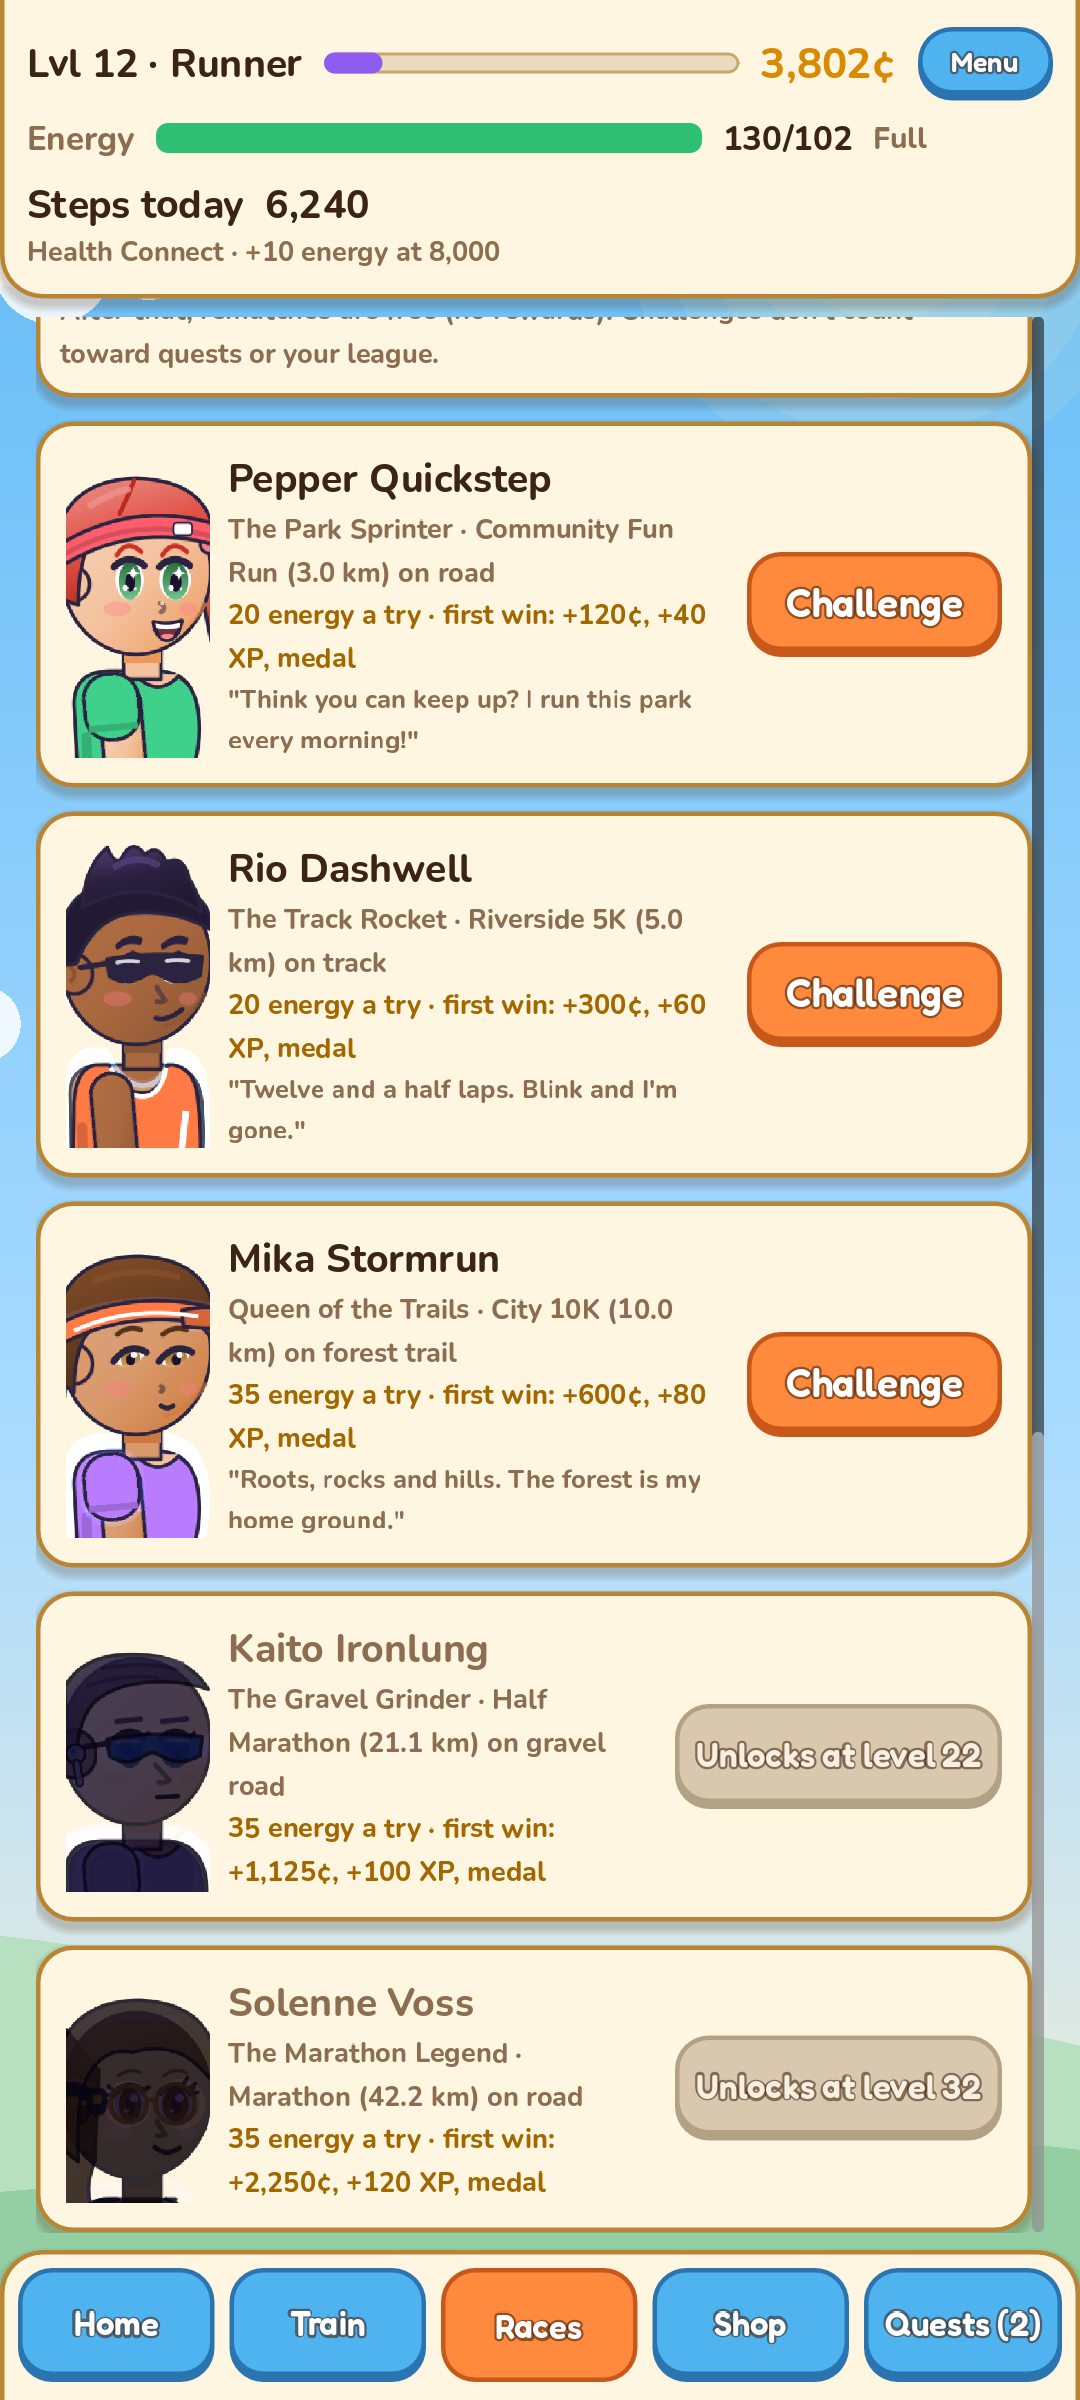
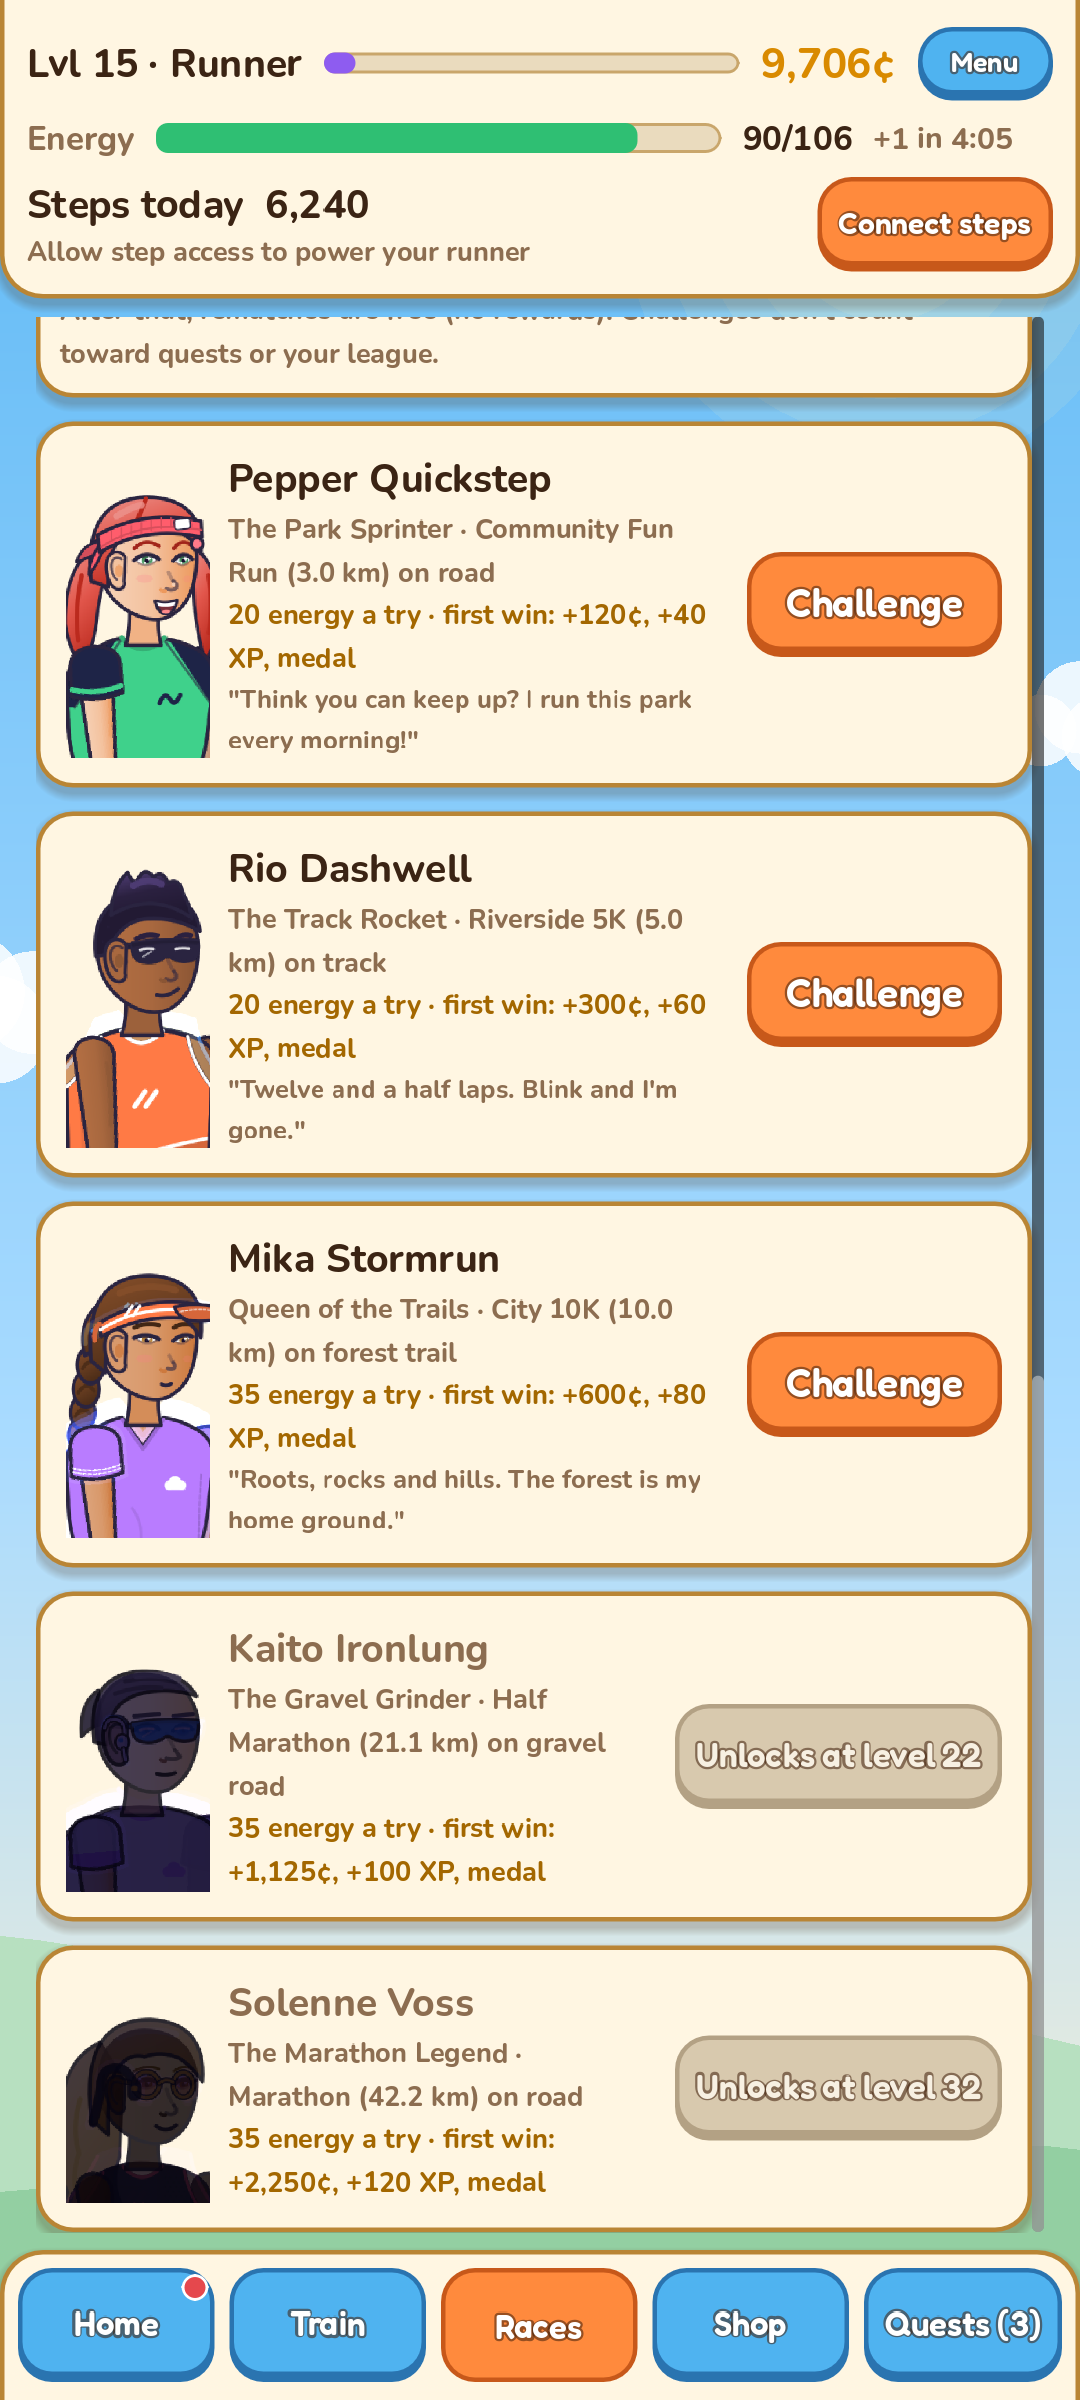
updated release page for Runling 0.11.0 LJT

diff --git a/CHANGELOG.md b/CHANGELOG.md
@@ -1,5 +1,25 @@
 # Changelog
 
+## 0.11.0 (September 29, 2026)
+
+Download: `runling_0.11.0.apk` from the [Google Drive folder](https://drive.google.com/drive/folders/1OKRJil2Vq85TlMJgisvNVxiQkPWyds1h?usp=sharing)
[1 lines of base64/hex data omitted]
+
+Installs over 0.10.x; your runner and progress stay, including every look you picked.
+
+**New look: runners that look like people**
+- Every runner is redrawn: taller and more natural (about 6 heads tall), with a jaw and chin,
+  real hands, and arms and legs that bend smoothly. Female runners have their own shape.
+- Faces are redrawn too: all 8 eye styles, noses and ears, and all 17 hairstyles are refitted.
+- The arm and leg on the far side sit a little in shadow, so your runner looks more solid.
+
+**Every piece of gear redrawn**
+- Each item now has real detail and each brand its own mark.
+- New designs of their own: the Tempo Tee (raglan sleeves), Soft Tee (V-neck), Cloud Tee (clouds
+  at the hem), Elite Singlet (speed bands), Champion Singlet (laurel emblem), Trail Shorts
+  (cargo pocket) and the Phantom shoes (winged heel). The Aero Singlet is two-tone.
+- Socks now run down into the shoe. Dyes work on everything as before.
+
 ## 0.10.1 (September 29, 2026)
 
 Download: `runling_0.10.1.apk` from the [Google Drive folder](https://drive.google.com/drive/folders/1OKRJil2Vq85TlMJgisvNVxiQkPWyds1h?usp=sharing)

diff --git a/README.md b/README.md
@@ -5,7 +5,7 @@ looks like you, feed them, train them and race them against other runners.
 The more you walk in real life, the stronger your runner gets.
 
 **[Download the latest version (Google Drive)](https://drive.google.com/drive/folders/1OKRJil2Vq85TlMJgisvNVxiQkPWyds1h?usp=sharing)**
-· Latest: **0.10.1** (September 29, 2026) · Android 8.0 or newer, 64-bit phone
+· Latest: **0.11.0** (September 29, 2026) · Android 8.0 or newer, 64-bit phone
 · [Runling on the Tabi Studio website](https://lextabi.github.io/tabistudio/runling/)
 
 <p>
